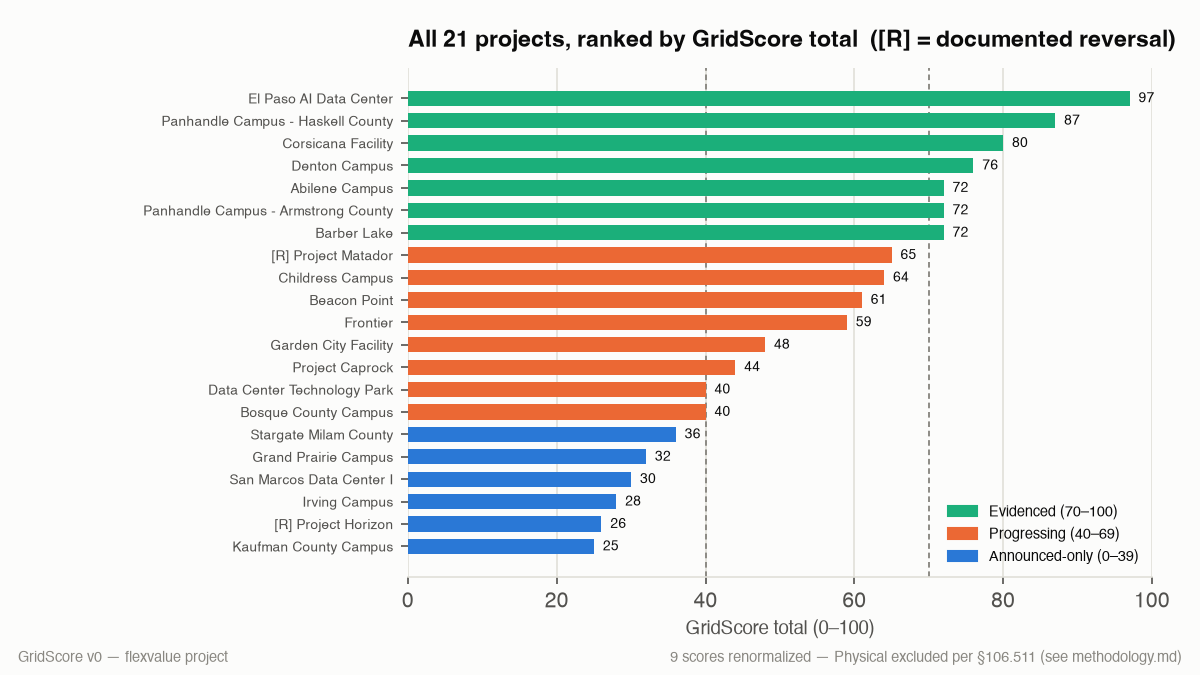
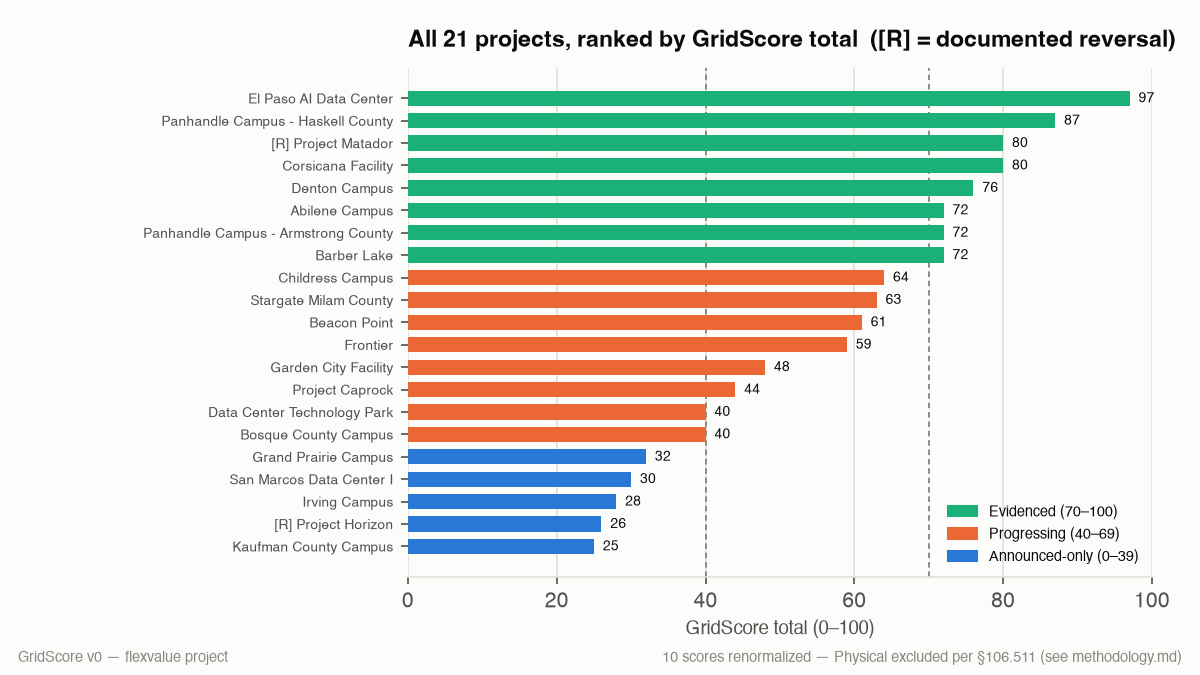
Re-score SB Energy / Stargate Milam 36 -> 63 (Progressing) after S-1; fix stale counts; log corrections

diff --git a/make_charts.py b/make_charts.py
@@ -145,7 +145,8 @@ def chart2_all_projects():
     ax.set_title("All 21 projects, ranked by GridScore total  ([R] = documented reversal)",
                   fontsize=10.8, fontweight="bold", loc="left", pad=10, color=INK_PRIMARY)
     fig.subplots_adjust(left=0.34, right=0.96, top=0.90, bottom=0.145)
-    footer(fig, "9 scores renormalized — Physical excluded per §106.511 (see methodology.md)")
+    n_renorm = sum(r["scoring_basis"].startswith("renormalized") for r in rows)
+    footer(fig, f"{n_renorm} scores renormalized — Physical excluded per §106.511 (see methodology.md)")
     fig.savefig(os.path.join(CHART_DIR, "chart2_all_projects.png"))
     plt.close(fig)
 

diff --git a/evidence/08-sb-energy-stargate-milam.md b/evidence/08-sb-energy-stargate-milam.md
@@ -1,20 +1,77 @@
 # Evidence Log — Stargate Milam County (SB Energy / SoftBank)
 
-County: Milam · Announced: 1,200 MW · Sponsor: SB Energy (SoftBank subsidiary), for OpenAI
+County: Milam · Announced (ledger value, held): 1,200 MW · the S-1's executed leases cover 308 + 445 = 753 MW-IT · Sponsor: SB Energy, Inc. (SoftBank subsidiary; IPO registration No. 333-298675), for an OpenAI affiliate
 
-## Site control
-**Evidence found — strong, inferred via entity records.** "Southridge Land TX LLC" acquired ~4,709 acres of the former Alcoa smelter site (within the larger 33,000-acre former Sandow Lakes Ranch) per an April 24 [year not fully specified in secondary source, presumed 2026] deed filed with Milam County. The LLC's registered address is SoftBank's Menlo Park, CA office. **This is a textbook affiliate-LLC-traceable-via-filing case per the spec's guidance** — the connection to SoftBank/SB Energy is inferred via the registered address, not a direct SB Energy name on the deed.
-- Source: [The Real Deal, 2026-06-17](https://therealdeal.com/texas/2026/06/17/softbank-tied-to-detail-sparse-land-purchase-in-milam-county/) — captured 2026-08-05. **Flag: inferred connection, not a direct-name match.**
+**Re-scored 2026-09-26: 63, Progressing** (was 36, Announced-only). Reason: SB Energy's S-1, public 2026-09-01, plus TCEQ and Comptroller records it resolves. See `corrections.md` (2026-09-26) and the full statement-by-statement comparison in `evidence/08-s1-vs-record-DRAFT.md`. The 2026-08-05 text is kept verbatim at the end of this file, marked superseded.
 
-## Physical commitment
-**No public evidence found (as of 2026-08-05).** Searched multiple combinations (SB Energy, Southridge Land, Xebec Holdings + Milam County + TCEQ) — all dead-ended on generic TCEQ program pages, no docket found.
+```
+Scoring basis: renormalized /75 (Physical n/o, §106.511)
+total = (Site 20 + Financial 12 + Incentive 7 + Track Record 8) / 75 x 100
+      = 47 / 75 x 100 = 62.67 -> 63   (Progressing, 40-69)
+```
 
-## Financial commitment
-**Evidence found — partial, corporate-level.** $1B joint OpenAI/SoftBank investment into SB Energy disclosed (corporate-level, not project-specific). ~$18B total campus cost estimate reported by trade press (DCD), not confirmed by a primary filing.
+Citations: "S-1/A2" is [S-1/A No. 2, 2026-09-21](https://www.sec.gov/Archives/edgar/data/2133037/000162828026062846/sbenergy-sx1a2.htm) (printed page numbers). "EX-10.28" is [Amended and Restated Lease Agreement (Building 1)](https://www.sec.gov/Archives/edgar/data/2133037/000162828026060761/sbenergy-ex1028xexecutionv.htm), filed with S-1/A No. 1 on 2026-09-04. "EX-21.1" is the [list of subsidiaries](https://www.sec.gov/Archives/edgar/data/2133037/000162828026062846/exhibit211-sx1a2.htm). All captured 2026-09-26.
 
-## Incentive filings
-**No public evidence found (as of 2026-08-05).** Not found on the JETI current-agreements list or the Comptroller's Qualifying Data Center registry — dead end on both.
+## Site control — 20/25, government-record (SEC exhibit)
+- S-1/A2 p.11: the contracted-portfolio table marks "Land Control" for Milam County 1 and Milam County 2.
+- EX-10.28 §2: "Landlord leases the Premises to Tenant"; Basic Lease Information §9: "Premises: The Land and the approximately [***] square feet building". S-1/A2 p.II-5 names the landlord as "Milam County DC, LLC", which EX-21.1 lists as a subsidiary.
+- **Open:** whether the subsidiary owns the land or holds it under a ground lease. The S-1 does not say (company-wide, p.73: "we only own certain of the land our data center projects are located on"). EX-10.28 §8 says the land will be re-described as condominium units once a Declaration is recorded "in the County land records". That recorded Declaration would settle it.
+- **Prior basis withdrawn:** the 2026-08-05 capture cited an April deed to "Southridge Land TX LLC" for part of the former Alcoa site. That deed likely covers a different parcel (INFERENCE). Neither the S-1 nor EX-21.1 names Southridge, and TCEQ places SB Energy's data center records near Burlington ([TCEQ stormwater TXR1540UC, "SB ENERGY - ORION DATA CENTER"](https://www2.tceq.texas.gov/wq_dpa/index.cfm), 600.75 acres disturbed, NOI approved 2025-03-28).
 
-## Sponsor track record
-**Evidence found — mixed.** SB Energy has a strong, well-documented delivery record in **utility-scale solar**: ~1.7GW developed/financed since 2019 (1.3GW operational), $4B+ in secured project financing. However, this is SB Energy's **first data-center-specific project** — the solar track record is in an adjacent business line, not a direct precedent for data-center delivery.
-- Source: [SB Energy press materials](https://sbenergy.com/sb-energy-announces-closing-of-financing-and-building-of-1-7gw-of-solar-projects-across-california-and-texas/) — captured 2026-08-05.
+## Physical commitment — n/o (§106.511), excluded and renormalized
+- Power plan, S-1/A2 p.248: "In connection with the Milam County data center campus, we expect to deliver electricity to the tenant from co-located power generation assets pursuant to on-site power supply agreements."
+- S-1/A2 p.200: "Phase 1-A (200 MW from Orion 1 via 34.5kV, targeted August 2026), Phase 1-B (230 MW from Orion 2 via 345kV, targeted December 2026), Phase 1-C (230 MW from Orion 3 via 345kV, targeted February 2027)". Orion 1–3 hold the Ben Milam Solar 1–3 projects (p.256). S-1/A2 contains no gas or thermal generation plan for Milam.
+- The only TCEQ air authorization found: [NSR PBR registration 183969](https://www2.tceq.texas.gov/airperm/index.cfm), rule "106.511", EFFECTIVE, received and completed 2026-05-06, holder "SE DC DEVCO LLC", which EX-21.1 lists as a subsidiary. A county-wide search of the 35 NSR records received in Milam County from 2025-01-01 to 2026-09-26 shows no case-by-case or pending application from any SB Energy entity. EX-10.28 lets the tenant install "backup generators".
+- Why the 2026-08-05 "true zero" no longer applies: that label assumed a dedicated primary-generation build that would need an individual TCEQ permit. The S-1 shows co-located solar plus backup engines under §106.511. That is category 3 in `methodology.md` ("not observable by category"), the same rule applied to the other 9 such projects.
+- Construction evidence (context, not scored under n/o): S-1/A2 p.200, "Vertical construction; NTP issued April 2026"; [TDLR TABS2026017746](https://www.tdlr.texas.gov/TABS/Search/Project/TABS2026017746), "FREEBIRD DATA CENTER PHASE 1", owner "Milam County Data Center LLC", $470,000,000. The Freebird link rests on a Milam County agenda item pairing "Project Freebird" with SB Energy and OpenAI (2026-09-14): INFERENCE.
+
+## Financial commitment — 12/15
+- Executed, SEC-material, project-specific agreements: two triple-net leases dated 2026-01-09 between Milam County DC, LLC and Orion DC I, LLC, "an affiliate of OpenAI". Each is 15 years, with a joinder by OpenAI Global, LLC as guarantor (S-1/A2 p.248, p.II-5; EX-10.28, EX-10.29).
+- Also on file: Oncor's Amendment No. 3 to the Ben Milam Solar 1 interconnection agreement, naming "Milam County DC, LLC" as "Large Load retail customer" for up to ~200 MW behind the meter ([PUCT 35077, Item 2423](https://interchange.puc.texas.gov/Documents/35077_2423_1599916.PDF)).
+- Scored 12, not 15, for four named discounts per the Financial scale in `methodology.md`:
+  1. Construction financing for both buildings is "In active discussions; not yet closed" (S-1/A2 p.184).
+  2. Related-party concentration: "substantially all of our near-term data center revenue is expected to be derived from these related-party leases" (S-1/A2 p.18, p.202).
+  3. The tenant has buy-out rights "if delays in meeting applicable RFS conditions persist for 365 days or more", with "no extensions for utility delays" (S-1/A2 p.201, p.18).
+  4. ERCOT's energization pause: "ERCOT will not approve any authorizations to energize data center Large Loads until the verification and audit process is complete" ([PUCT 59142, Item 42, 2026-08-10](https://interchange.puc.texas.gov/Documents/59142_42_1672561.PDF)).
+
+## Incentive filings — 7/15 (§151.359 registry cap)
+- [Comptroller registry](https://comptroller.texas.gov/taxes/data-centers/data-center-lists.php), "Registered Qualifying Large Data Center Projects":
+  - "Milam County Data Center" — effective 12/09/2025; Owner MDC Building 1, LLC; Occupant Orion DC I, LLC; Operator Milam County DC, LLC.
+  - "Milam County Data Center Phase 2" — effective 06/10/2026; Owner MDC Building 2, LLC; same occupant and operator.
+  - EX-21.1 lists MDC Building 1, LLC, MDC Building 2, LLC and Milam County DC, LLC as SB Energy subsidiaries. S-1/A2 p.248 names Orion DC I, LLC as the OpenAI-affiliated tenant.
+- **Correction:** the 2026-08-05 capture called this registry entry "confirmed NOT a match". That was wrong (see `corrections.md`).
+- **Open (county Ch. 312 abatement, not scored above the cap):** [Milam County Commissioners Court](https://meetings.boardbook.org/Public/Organization/3085) agendas:
+  - 2025-11-24: public hearing and action on "a Tax Abatement Agreement between Milam County and Milam County DC, LLC, and approval of Order".
+  - 2025-12-08: "First Addendum to the Tax Abatement Agreement with Milam County DC, LLC".
+  - 2026-08-24: "possibly take action on how to progress with the future of the Abatement Agreement with SB Energy and OpenAI."
+  - The posted minutes record no votes. Execution of the agreement and any 2026-08-24 action are UNVERIFIED. The 2026-08-24 item is a possible reversal; it is not flagged until an outcome is documented.
+
+## Sponsor track record — 8/20 (unchanged)
+- S-1/A2 p.1: "No data center capacity is currently in operation." The Milam and Cosmos campuses are SB Energy's first data center projects.
+- S-1/A2 p.1: "approximately 2.2 GWac of solar power and BESS projects" in operation as of 2026-06-30 (the 2026-08-05 capture cited 1.3 GW operational). That is a strong record, but in an adjacent business line.
+
+## Documented reversal flag — no
+None documented. The 2026-08-24 abatement agenda item is logged above as open.
+
+---
+
+## Superseded: 2026-08-05 capture (kept verbatim; scored 36, Announced-only)
+
+> County: Milam · Announced: 1,200 MW · Sponsor: SB Energy (SoftBank subsidiary), for OpenAI
+>
+> ## Site control
+> **Evidence found — strong, inferred via entity records.** "Southridge Land TX LLC" acquired ~4,709 acres of the former Alcoa smelter site (within the larger 33,000-acre former Sandow Lakes Ranch) per an April 24 [year not fully specified in secondary source, presumed 2026] deed filed with Milam County. The LLC's registered address is SoftBank's Menlo Park, CA office. **This is a textbook affiliate-LLC-traceable-via-filing case per the spec's guidance** — the connection to SoftBank/SB Energy is inferred via the registered address, not a direct SB Energy name on the deed.
+> - Source: [The Real Deal, 2026-06-17](https://therealdeal.com/texas/2026/06/17/softbank-tied-to-detail-sparse-land-purchase-in-milam-county/) — captured 2026-08-05. **Flag: inferred connection, not a direct-name match.**
+>
+> ## Physical commitment
+> **No public evidence found (as of 2026-08-05).** Searched multiple combinations (SB Energy, Southridge Land, Xebec Holdings + Milam County + TCEQ) — all dead-ended on generic TCEQ program pages, no docket found.
+>
+> ## Financial commitment
+> **Evidence found — partial, corporate-level.** $1B joint OpenAI/SoftBank investment into SB Energy disclosed (corporate-level, not project-specific). ~$18B total campus cost estimate reported by trade press (DCD), not confirmed by a primary filing.
+>
+> ## Incentive filings
+> **No public evidence found (as of 2026-08-05).** Not found on the JETI current-agreements list or the Comptroller's Qualifying Data Center registry — dead end on both.
+>
+> ## Sponsor track record
+> **Evidence found — mixed.** SB Energy has a strong, well-documented delivery record in **utility-scale solar**: ~1.7GW developed/financed since 2019 (1.3GW operational), $4B+ in secured project financing. However, this is SB Energy's **first data-center-specific project** — the solar track record is in an adjacent business line, not a direct precedent for data-center delivery.
+> - Source: [SB Energy press materials](https://sbenergy.com/sb-energy-announces-closing-of-financing-and-building-of-1-7gw-of-solar-projects-across-california-and-texas/) — captured 2026-08-05.

diff --git a/corrections.md b/corrections.md
@@ -75,3 +75,45 @@ made (`scored_table.md`, `key-stats.md`, `evidence_appendix.md`, `evidence/01-fe
 - Project 16 (Core Scientific, Denton): the `sponsor_track_record_source_url` in scoring_rubric_template.csv pointed to a TipRanks article about Marathon Digital's restatements, the source for project 19, apparently copied into the wrong row. It is replaced with Core Scientific's [10-K FY2024](https://www.sec.gov/Archives/edgar/data/1839341/000162828025008302/core-20241231.htm), which documents the Chapter 11 filing (2022-12-21) and emergence (2024-01-23). The Track Record score (10/20) is unchanged. The published rationale (`evidence_appendix.md`) rests on a clean site history since 2022 plus the Chapter 11, and uses nothing from the Marathon article. The rationale was uncited in `evidence/16`; see the open items below.
 - Projects 16 and 19 in scoring_rubric_template.csv: an unquoted comma in `physical_commitment_status` ("no evidence found (dead end, not absence)") had split one field into two, shifting every later column one place right (30 fields vs. a 29-column header). The field is now quoted and both rows have 29 fields. **No values changed.**
 - **Open, not changed (needs a decision):** `evidence/16` and scoring_rubric_template.csv row 16 (`sponsor_track_record_evidence`, `inferred_flags`) still describe Core Scientific as "being acquired by CoreWeave (~$9B deal)." Core Scientific terminated that merger agreement on 2025-10-30 after its stockholders did not approve it ([8-K, Item 1.02, accession 0001140361-25-039808](https://www.sec.gov/Archives/edgar/data/1839341/000114036125039808/ef20057995_8k.htm)). That predates the 2026-08-05 capture, so the statement was already stale when captured.
+
+---
+
+## 2026-09-26: SB Energy / Stargate Milam County re-scored 36 → 63 (`evidence/08-sb-energy-stargate-milam.md`)
+
+SB Energy / Stargate Milam re-scored 36 -> 63 (Progressing) after its S-1 (public 2026-09-01). Three errors: the Aug 5 incentive entry ('NOT a match') was wrong; the Comptroller registry entry is SB Energy's. The 'true zero' Physical label was wrong once the S-1 showed a co-located solar plan with backup engines registered under §106.511. The site-control basis cited a deed that likely covers a different parcel; the score now rests on the S-1 and a filed lease. The launch post (2026-09-25) and 'Three Places' piece repeated the old score; both carry correction notes on Substack. True zeros are now 2 of 21. methodology.md's '3 of 21' text will be updated with the September refresh (pending).
+
+- **Signals:**
+
+  | Signal | Before | After |
+  |---|---|---|
+  | Site | 20 | 20 (new basis) |
+  | Physical | 0, true zero | n/o (§106.511), excluded |
+  | Financial | 8 | 12 |
+  | Incentive | 0 | 7 |
+  | Track Record | 8 | 8 |
+  | Scoring basis | standard /100 | renormalized /75 |
+
+- **Arithmetic:**
+  - Before: 20 + 0 + 8 + 0 + 8 = 36.
+  - After: (20 + 12 + 7 + 8) / 75 × 100 = 47 / 75 × 100 = 62.67 → 63.
+- **Why, by error:**
+  1. **Incentive.** The Comptroller's "Milam County Data Center" entries name MDC Building 1, LLC, MDC Building 2, LLC, Orion DC I, LLC and Milam County DC, LLC. The S-1's EX-21.1 lists the MDC and Milam County DC entities as SB Energy subsidiaries, and S-1/A No. 2 p.248 names Orion DC I, LLC as the OpenAI-affiliated tenant. I called the entry "confirmed NOT a match" on 2026-08-05; that was wrong. The score is capped at 7 because execution of the county Ch. 312 abatement is not confirmed.
+  2. **Physical.** S-1/A No. 2 describes power from "co-located power generation assets" (p.248) delivered from Orion 1–3, the Ben Milam Solar projects (p.200, p.256). It has no gas plan for Milam. TCEQ shows PBR 183969 under §106.511 for SB Energy subsidiary SE DC Devco, LLC.
+  3. **Site.** The Southridge Land TX LLC / former-Alcoa deed is not named in the S-1 or EX-21.1. It likely covers a different parcel (INFERENCE). Site control now rests on S-1/A No. 2 p.11 ("Land Control") and EX-10.28, in which listed subsidiary Milam County DC, LLC leases "the Land" to the tenant. Owned vs. ground lease is open.
+  - **Financial** (new information, not a correction): executed, SEC-filed leases, discounted for four named factors (see evidence/08).
+- **Sources:**
+  - [S-1](https://www.sec.gov/Archives/edgar/data/2133037/000162828026059639/sbenergy-sx1.htm)
+  - [S-1/A No. 1 (EX-10.28, EX-10.29)](https://www.sec.gov/Archives/edgar/data/2133037/000162828026060761/sbenergy-sx1a1exhibitsonly.htm)
+  - [S-1/A No. 2](https://www.sec.gov/Archives/edgar/data/2133037/000162828026062846/sbenergy-sx1a2.htm)
+  - [EX-21.1](https://www.sec.gov/Archives/edgar/data/2133037/000162828026062846/exhibit211-sx1a2.htm)
+  - [Comptroller data center registry](https://comptroller.texas.gov/taxes/data-centers/data-center-lists.php)
+  - [TCEQ Air Permits search](https://www2.tceq.texas.gov/airperm/index.cfm) (RN112444104)
+  - All captured 2026-09-26. Full comparison in `evidence/08-s1-vs-record-DRAFT.md`.
+- **Tier effect:**
+  - Before → after: Evidenced 8 / Progressing 7 / Announced-only 6 → 8 / 8 / 5.
+  - Progressing MW: 6,330 + 1,200 = 7,530.
+  - Announced-only MW: 6,601 − 1,200 = 5,401.
+  - Total unchanged: 15,791 + 7,530 + 5,401 = 28,722.
+- **Changed in this pass:** `evidence/08-sb-energy-stargate-milam.md`, `scored_table.csv` (row 8), `scored_table.md` (table row moved from rank 16 to rank 10; ranks 11–15 renumbered; tier tallies; watchlist note), `evidence_appendix.md` (entry 8; renormalized count 9 → 10), `key-stats.md` (tier table, true-zero count; renormalized count 9 → 10), `scored_table.md` intro counts (standard 12 → 11, renormalized 9 → 10), `scoring_rubric_template.csv` (row 8, new basis), `key-stats.md` registry count (9 → 11, plus Frontier's circumstantial match noted as such) and permit count (7 → 9, split 4 full / 5 partial), `make_charts.py` (chart 2 footer: the hardcoded "9 scores renormalized" now counts renormalized rows from `scored_table.csv`, giving 10), `charts/chart2_all_projects.png` and `charts/chart3_mw_by_tier.png` (regenerated).
+- key-stats.md registry (9 -> 11) and permit (7 -> 9) counts were already stale before this pass; corrected to match scored_table.csv.
+- **Not changed, intentionally:** `essay-final.md` (published essay; gets a Substack note) and `methodology.md` (uncommitted refresh edits pending).

diff --git a/scored_table.md b/scored_table.md
@@ -3,9 +3,9 @@
 Scored per the five-signal rubric. Tiers: 70–100 Evidenced · 40–69 Progressing · 0–39
 Announced-only. Two scoring regimes now coexist, both landing on the same 0–100 scale:
 
-- **Standard /100** — used for the 12 projects with either a confirmed Physical Commitment
+- **Standard /100** — used for the 11 projects with either a confirmed Physical Commitment
   finding (partial or full) or a genuine true zero. All 5 signals count, denominator is 100.
-- **Renormalized /75** — used for the 9 projects whose generator setup plausibly qualifies for
+- **Renormalized /75** — used for the 10 projects whose generator setup plausibly qualifies for
   TCEQ permit-by-rule (§106.511) coverage, meaning a public docket's absence is structurally
   uninformative, not evidence of anything. Physical Commitment is **excluded from both the
   numerator and the denominator** rather than scored: `total = (Site + Financial + Incentive +
@@ -42,13 +42,13 @@ that had the moving party backwards).
 | 6 | Panhandle — Armstrong Co. | Google | Armstrong Co. | n/d | 15 | 25 | 5 | 7 | 20 | **72** | standard /100 | Evidenced | — |
 | 6 | Barber Lake | Cipher Mining | Mitchell Co. | 300 | 22 | 12 | 15 | 7 | 16 | **72** | standard /100 | Evidenced | — |
 | 9 | Childress Campus | Crusoe/Lancium | Childress Co. | 1,000 | 15 | n/o (§106.511) | 8 | 7 | 18 | **64** | renormalized /75 | Progressing | — |
-| 10 | Beacon Point | Hut 8 | Nueces Co. | 1,000 | 10 | n/o (§106.511) | 15 | 7 | 14 | **61** | renormalized /75 | Progressing | — |
-| 11 | Frontier | Vantage Data Centers | Shackelford Co. | 1,400 | 12 | 25 | 8 | 4 | 10 | **59** | standard /100 | Progressing | — |
-| 12 | Garden City Facility | Marathon Digital | Glasscock Co. | 200 | 22 | n/o (§106.511) | 5 | 0 | 9 | **48** | renormalized /75 | Progressing | — |
-| 13 | Project Caprock | Aligned Data Centers | Hale Co. | 540 | 10 | n/o (§106.511) | 6 | 7 | 10 | **44** | renormalized /75 | Progressing | — |
-| 14 | Data Center Technology Park | Tract | Caldwell Co. | 2,000 | 18 | 0 (true zero) | 8 | 0 | 14 | **40** | standard /100 | Progressing | — |
-| 14 | Bosque County Campus | ECP+KKR/CyrusOne | Bosque Co. | 190 | 5 | n/o (§106.511) | 15 | 0 | 10 | **40** | renormalized /75 | Progressing | — |
-| 16 | Stargate Milam County | SB Energy (SoftBank) | Milam Co. | 1,200 | 20 | 0 (true zero) | 8 | 0 | 8 | **36** | standard /100 | Announced-only | — |
+| 10 | Stargate Milam County | SB Energy (SoftBank) | Milam Co. | 1,200 | 20 | n/o (§106.511) | 12 | 7 | 8 | **63** | renormalized /75 | Progressing | — |
+| 11 | Beacon Point | Hut 8 | Nueces Co. | 1,000 | 10 | n/o (§106.511) | 15 | 7 | 14 | **61** | renormalized /75 | Progressing | — |
+| 12 | Frontier | Vantage Data Centers | Shackelford Co. | 1,400 | 12 | 25 | 8 | 4 | 10 | **59** | standard /100 | Progressing | — |
+| 13 | Garden City Facility | Marathon Digital | Glasscock Co. | 200 | 22 | n/o (§106.511) | 5 | 0 | 9 | **48** | renormalized /75 | Progressing | — |
+| 14 | Project Caprock | Aligned Data Centers | Hale Co. | 540 | 10 | n/o (§106.511) | 6 | 7 | 10 | **44** | renormalized /75 | Progressing | — |
+| 15 | Data Center Technology Park | Tract | Caldwell Co. | 2,000 | 18 | 0 (true zero) | 8 | 0 | 14 | **40** | standard /100 | Progressing | — |
+| 15 | Bosque County Campus | ECP+KKR/CyrusOne | Bosque Co. | 190 | 5 | n/o (§106.511) | 15 | 0 | 10 | **40** | renormalized /75 | Progressing | — |
 | 17 | Grand Prairie Campus | PowerHouse/Provident | Ellis Co. | 1,800 | 10 | n/o (§106.511) | 6 | 0 | 8 | **32** | renormalized /75 | Announced-only | — |
 | 18 | San Marcos Data Center I | CloudBurst/Evolve | Hays/Guadalupe Co. | 1,200 | 12 | 8 | 10 | 0 | 0 | **30** | standard /100 | Announced-only | — |
 | 19 | Irving Campus | PowerHouse Data Centers | Dallas Co. | 201 | 10 | 5 | 5 | 0 | 8 | **28** | standard /100 | Announced-only | — |
@@ -88,8 +88,10 @@ Google/Haskell ("Journey") goes from sitting exactly on the Evidenced floor (70,
 comfortably inside it (87) — a materially different confidence read on the same underlying facts.
 
 **Tier tallies, prior version (before the 2026-09-21 Fermi refresh):** Evidenced 7 · Progressing 8
-· Announced-only 6. **Current, after the Fermi refresh: Evidenced 8 · Progressing 7 · Announced-only
-6.** Fermi moved Progressing→Evidenced (65→80); no other project changed this pass.
+· Announced-only 6. **After the Fermi refresh (2026-09-21): Evidenced 8 · Progressing 7 · Announced-only
+6.** Fermi moved Progressing→Evidenced (65→80); no other project changed that pass. **Current, after
+the SB Energy re-score (2026-09-26): Evidenced 8 · Progressing 8 · Announced-only 5.** SB Energy moved
+Announced-only→Progressing (36→63); see `corrections.md`.
 
 ## Reversal flags (informational only — not scored as penalties)
 
@@ -125,8 +127,9 @@ more than the flat credit did.
 | *Childress Campus (Crusoe/Lancium) — just outside the ~5 window* | Childress Co. | 64 | Evidenced floor | −6 (noting it since it's close, not a strict qualifier) |
 
 Excluded from this specific cut because their site-control confidence is government-record, not
-press-reported-only, even though their totals are also near a cutoff: SB Energy (36, government-
-record-but-inferred entity link, 4 below Progressing), Google/Haskell (87, government-record, no
+press-reported-only, even though their totals are also near a cutoff: SB Energy (63, re-scored from
+36 on 2026-09-26, see `corrections.md`; government-record via SEC exhibit; 70 − 63 = 7 below the
+Evidenced floor, just outside the ~5 window), Google/Haskell (87, government-record, no
 longer boundary-fragile after renormalization), Marathon (48, government-record, not close to a
 cutoff under the new total).
 

diff --git a/key-stats.md b/key-stats.md
@@ -3,7 +3,7 @@
 All figures as of 2026-09-21 (updated from the original 2026-08-05 baseline by a full evidence
 refresh of Fermi America/Project Matador — see `evidence/01-fermi-america-project-matador.md`),
 from the 21-project scored universe (`scored_table.csv`), reflecting the **renormalized** Physical
-Commitment treatment (Physical excluded from both numerator and denominator for the 9 projects
+Commitment treatment (Physical excluded from both numerator and denominator for the 10 projects
 whose generator setup plausibly qualifies for TCEQ permit-by-rule; total = other-four-signals / 75
 × 100 — see `methodology.md` for the full rule and `scored_table.md` for the diff against the
 earlier flat-+5-credit version). MW figures used are the largest publicly stated announced figure
@@ -70,13 +70,13 @@ energize, and observes only **3,966 MW (0.8%)** actually drawing power. Whatever
 the "AI data center boom" in Texas turns out to be, the share of it that is currently operating,
 by ERCOT's own operational count, rounds to less than one percent of the announced pipeline.
 
-## Tier counts and aggregate MW (as of 2026-09-21, post-Fermi-refresh)
+## Tier counts and aggregate MW (as of 2026-09-26, after the SB Energy re-score)
 
 | Tier | # of projects | Aggregate announced MW (19 projects w/ disclosed MW) |
 |---|---|---|
 | Evidenced (70–100) | 8 | 15,791 MW |
-| Progressing (40–69) | 7 | 6,330 MW |
-| Announced-only (0–39) | 6 | 6,601 MW |
+| Progressing (40–69) | 8 | 7,530 MW |
+| Announced-only (0–39) | 5 | 5,401 MW |
 | **Total** | **21** | **28,722 MW** (across 19 MW-disclosed projects; 2 undisclosed — both in the Evidenced tier: Google's Armstrong and Haskell County campuses) |
 
 Fermi moved Progressing→Evidenced this refresh (65→80), carrying its 11,000 MW ledger value with
@@ -162,8 +162,10 @@ an open, plant-by-plant question this session did not exhaustively chase.**
 
 The incentive activity that does exist for these projects instead runs through two *different*
 channels: (1) the Comptroller's separate §151.359 "Qualifying Data Center" sales-tax-exemption
-registry, which directly named 9 of the 21 projects (manually verified against the raw registry
-table, not an AI summary — see `evidence_appendix.md`); and (2) county/municipal property-tax
+registry, which directly named 11 of the 21 projects (manually verified against the raw registry
+table, not an AI summary — see `evidence_appendix.md`), plus a circumstantial-only match for
+Vantage/Frontier (Oracle-occupant entries; the registry prints no county, so not geographically
+confirmed); and (2) county/municipal property-tax
 abatements negotiated directly with a commissioners court or city council, confirmed for **3 of 21**
 as of 2026-09-21 (Meta/El Paso; Google's Haskell/"Journey" site; and Fermi's Carson County Chapter
 312 abatement, executed 2025-10-27 and confirmed this refresh by reading the county-clerk-filed
@@ -171,17 +173,19 @@ document directly — a fact that existed at the original Aug 5 capture and was 
 
 ## The permit-by-rule visibility finding
 
-TCEQ physical-commitment evidence is sharply bimodal by project size. **7 of 21 projects have a
-confirmed, docket-numbered TCEQ air permit or equivalent** (all among the largest sites — Fermi,
-Abilene, Vantage/Frontier, Meta, Google/Armstrong via Crusoe's "Goodnight" plant, Riot's TDLR
-permit, plus partial hits for Cipher). **9 of 21 have a power strategy that plausibly qualifies for
+**9 of 21 projects have permit
+evidence** (per `scored_table.csv`): **4 at full credit, 25/25** (Fermi, Abilene, Vantage/Frontier,
+Google/Armstrong via Crusoe's "Goodnight" plant) and **5 at partial credit** (Meta 22/25, PUC
+filing; Riot 20/25, TDLR building permit; Cipher 12/25, portable plant only; CloudBurst/San Marcos
+8/25, flood permit only; PowerHouse/Irving 5/25, building milestone only). With the 2 true zeros
+and the 10 not-observable projects below: 9 + 2 + 10 = 21. **10 of 21 have a power strategy that plausibly qualifies for
 TCEQ's "permit by rule" under 30 TAC §106.511** — grid interconnection plus standard-size
 backup/emergency generators, or reliance on an existing third-party plant — a category that
 requires **no individual public notice and no opportunity for a hearing**, the same permitting
-route commonly used for equipment like dry cleaners' boilers. For these 9, Physical Commitment is
+route commonly used for equipment like dry cleaners' boilers. For these 10, Physical Commitment is
 not scored as a zero or a partial credit; it is **excluded from the calculation entirely** and
 displayed as "n/o (§106.511)," with the total renormalized over the remaining 75 points (see
-`methodology.md`). **Only 3 of 21 (Poolside, Tract, SB Energy) remain a true zero** — cases where
+`methodology.md`). **Only 2 of 21 (Poolside, Tract) remain a true zero** (SB Energy moved to n/o (§106.511) on 2026-09-26; see `corrections.md`) — cases where
 the project's own stated power strategy would need an individually-permitted facility at scale, and
 none was found despite that expectation being reasonable.
 

diff --git a/evidence_appendix.md b/evidence_appendix.md
@@ -12,8 +12,8 @@ results for several matches that the raw table confirms or refutes cleanly.
 scoring entirely and renormalized** — not scored as a zero, and not given a flat partial credit
 either (an interim flat-+5 version was tried and superseded; see `methodology.md`) — displayed as
 **"n/o (§106.511)"** because their generator setup plausibly qualifies for TCEQ permit-by-rule
-coverage, making a missing public docket structurally uninformative. For these 9,
-`total = (Site + Financial + Incentive + Track Record) ÷ 75 × 100`. Five of the nine end up in a
+coverage, making a missing public docket structurally uninformative. For these 10,
+`total = (Site + Financial + Incentive + Track Record) ÷ 75 × 100`. Five of the original nine end up in a
 different tier than they would have under the original true-zero scoring: Google/Haskell
 ("Journey") Progressing→Evidenced (65→87), Core Scientific/Denton Progressing→Evidenced (57→76),
 Marathon/Garden City Announced-only→Progressing (36→48), Project Caprock/Aligned Announced-only→
@@ -79,17 +79,23 @@ Financial 10 (named Energy Transfer gas-supply agreement), Incentive 0, Track Re
 independently researched this session — this score reflects incomplete research, not a confirmed
 absence of track record; flagged, not to be read as a finding).
 
-**8. SB Energy — Stargate Milam County (36, Announced-only).** Site 20 (a real deed was filed with
-Milam County for ~4,709 acres, but the connection to SB Energy runs through a registered Menlo
-Park address for "Southridge Land TX LLC," not a named party — inferred, not confirmed). Physical
-**0 — true zero, not NOC**: SB Energy's own materials describe building new, dedicated generation
-to supply "the majority of the campus's power" — a scale of primary generation that, like Fermi's
-or Vantage's, would need an individual TCEQ permit and should be publicly visible; none was found,
-which is a more meaningful absence here than at the smaller, grid-reliant projects. Financial 8
-(corporate-level $1B SoftBank/OpenAI investment), Incentive 0 (the registry's own
-"Milam County Data Center" entry uses entirely different LLC names — MDC Building 1 LLC / Orion DC
-I LLC — confirmed as a *different*, unrelated Milam County project on manual check), Track Record 8
-(strong utility-solar delivery record, zero data-center-specific record).
+**8. SB Energy — Stargate Milam County (63, Progressing; re-scored 2026-09-26 from 36,
+Announced-only, after SB Energy's S-1 — see `corrections.md`).** Site 20, government-record (SEC
+exhibit): the S-1 marks "Land Control" for both Milam buildings (S-1/A No. 2 p.11), and in EX-10.28
+the landlord, listed subsidiary Milam County DC, LLC, leases "the Land" to the tenant. Whether the
+land is owned or ground-leased is not stated (open). The deed previously cited here (Southridge Land
+TX LLC, former Alcoa site) likely covers a different parcel (INFERENCE). Physical **n/o
+(§106.511)**, renormalized: the S-1 describes power from "co-located power generation assets" (p.248)
+delivered from the Ben Milam Solar (Orion 1–3) projects (p.200), with no gas-generation plan for Milam.
+The only TCEQ air authorization found is PBR 183969 under §106.511, held by SB Energy subsidiary SE DC
+Devco, LLC. Financial 12 (two executed, SEC-filed leases with an OpenAI affiliate, guaranteed by
+OpenAI Global, LLC; discounted for construction financing "not yet closed", related-party
+concentration, tenant buy-out rights after 365 days' delay, and ERCOT's energization pause).
+Incentive 7 (§151.359 registry match: the "Milam County Data Center" entry that this appendix
+previously called unrelated belongs to SB Energy subsidiaries per the S-1's EX-21.1; a county Ch. 312
+abatement is on 2025 agendas, but execution is not confirmed). Track Record 8 (strong utility-solar
+delivery record, zero data-center-specific record; the S-1 confirms "No data center capacity is
+currently in operation"). Total (20 + 12 + 7 + 8) / 75 × 100 = 62.67 → 63.
 
 **9. Meta — El Paso (97, Evidenced — highest score in the universe).** Site 25 (Wurldwide LLC,
 Meta's own named SPV, bought city-owned land via a council-approved sale). Physical 22 (PUC filing
